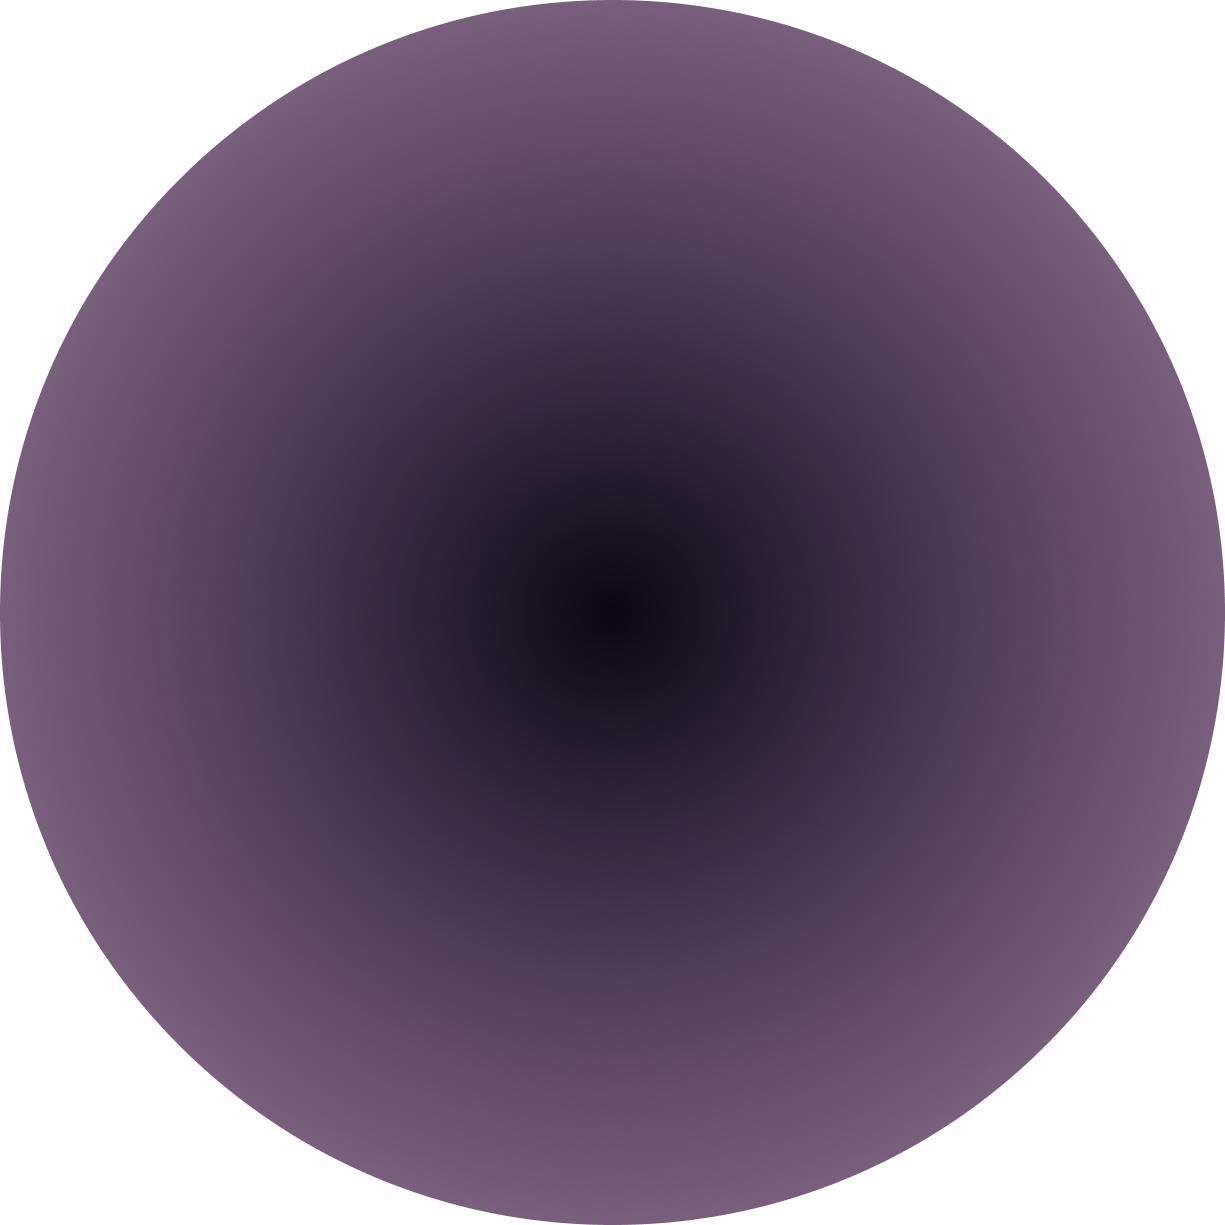
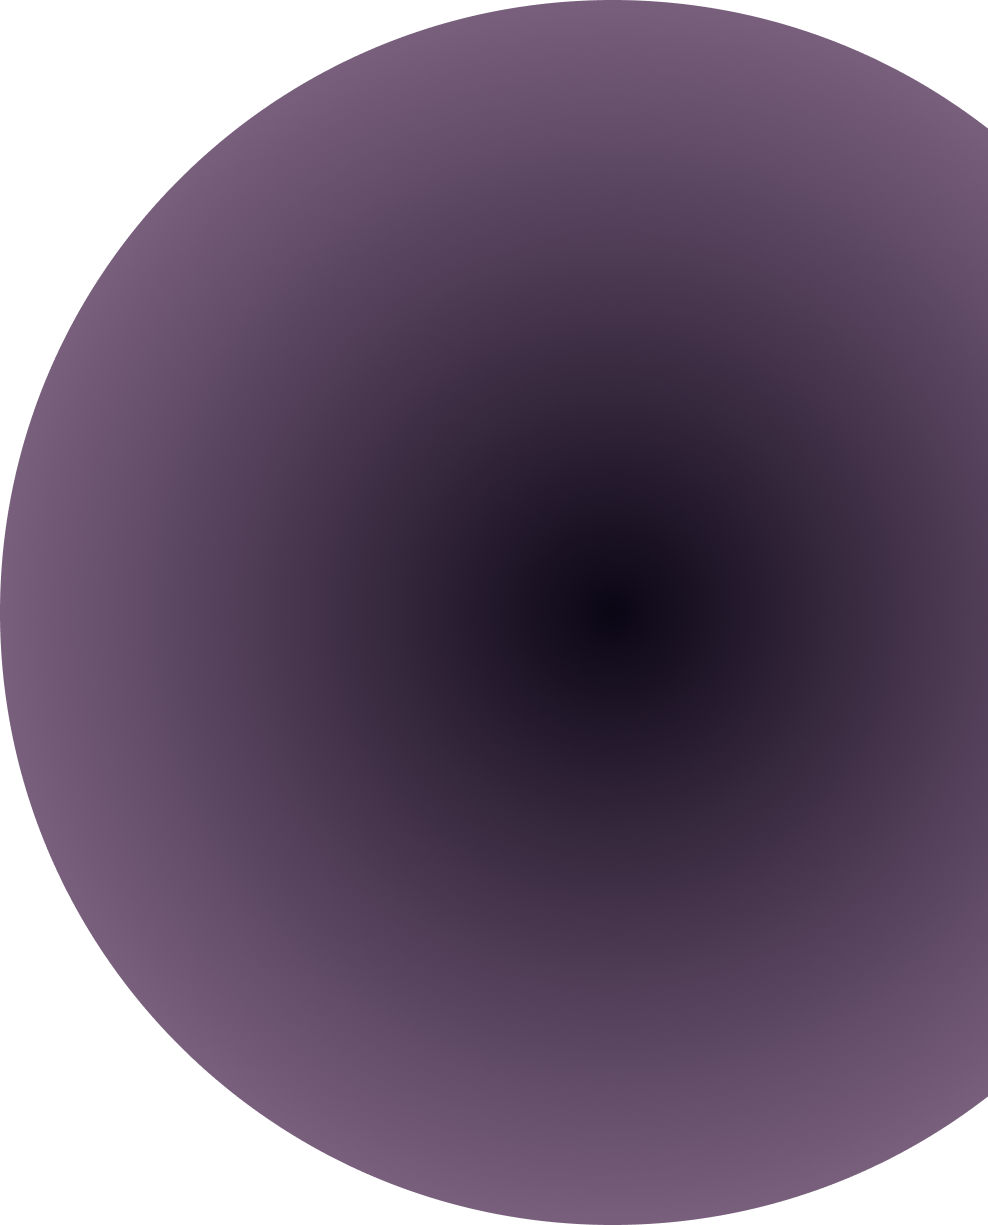
kerék pozicializálása, kereső oldal reszponzivitásának elkezdése.

diff --git a/Kereso.css b/Kereso.css
@@ -165,14 +165,13 @@ body {
 #results{
   display: flex;
   flex-wrap: wrap;
+  justify-content: space-around;
 }
 
 .result{
   width: 185px;
   background-color: #FFCF6B;
-  margin-left: 10%;
-  margin-top: 2%;
-  margin-bottom: 2%;
+  margin: 2% 2%;
 }
 
 .result:hover{

diff --git a/sorsolas.css b/sorsolas.css
@@ -27,11 +27,13 @@ body{
 }
 
 #kerek{
-  margin-top: 10vh;
-  width: 50%;
+  margin-top: 0vh;
+  width: 55%;
   height: auto;
   z-index: 1;
-  position: relative;
+  position: absolute;
+  margin-left: 45%;
+
 }
 
 #porgetes-btn{
